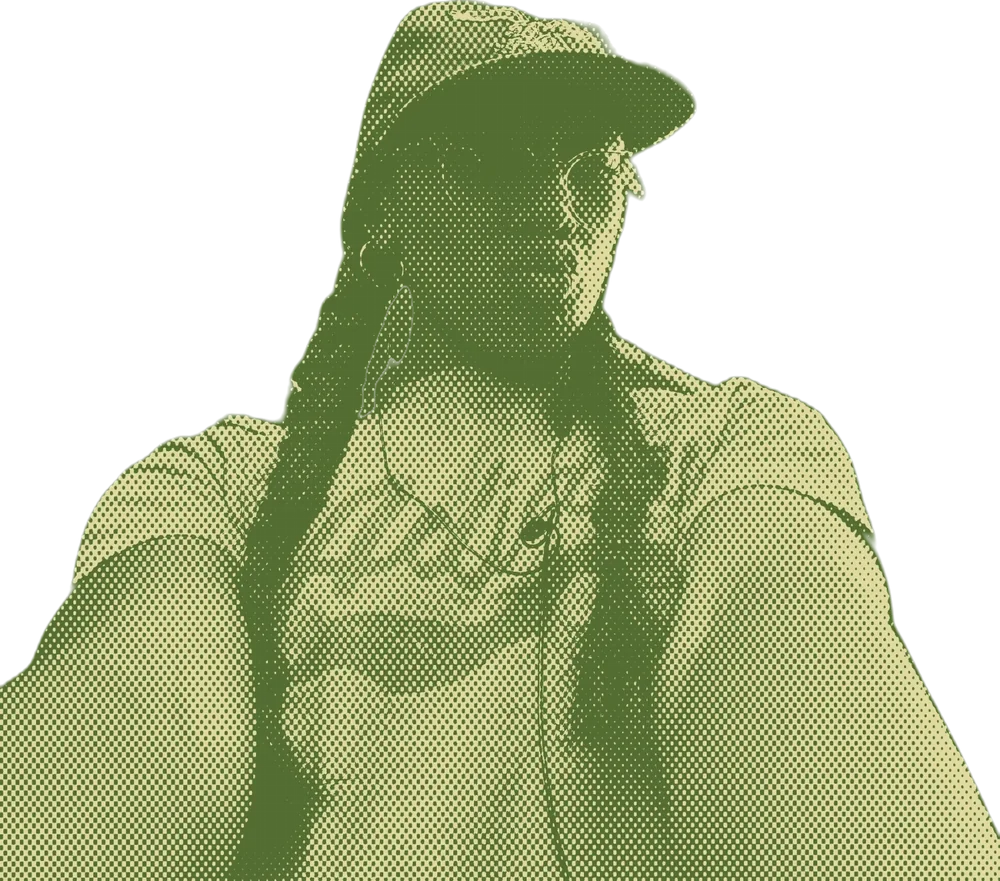
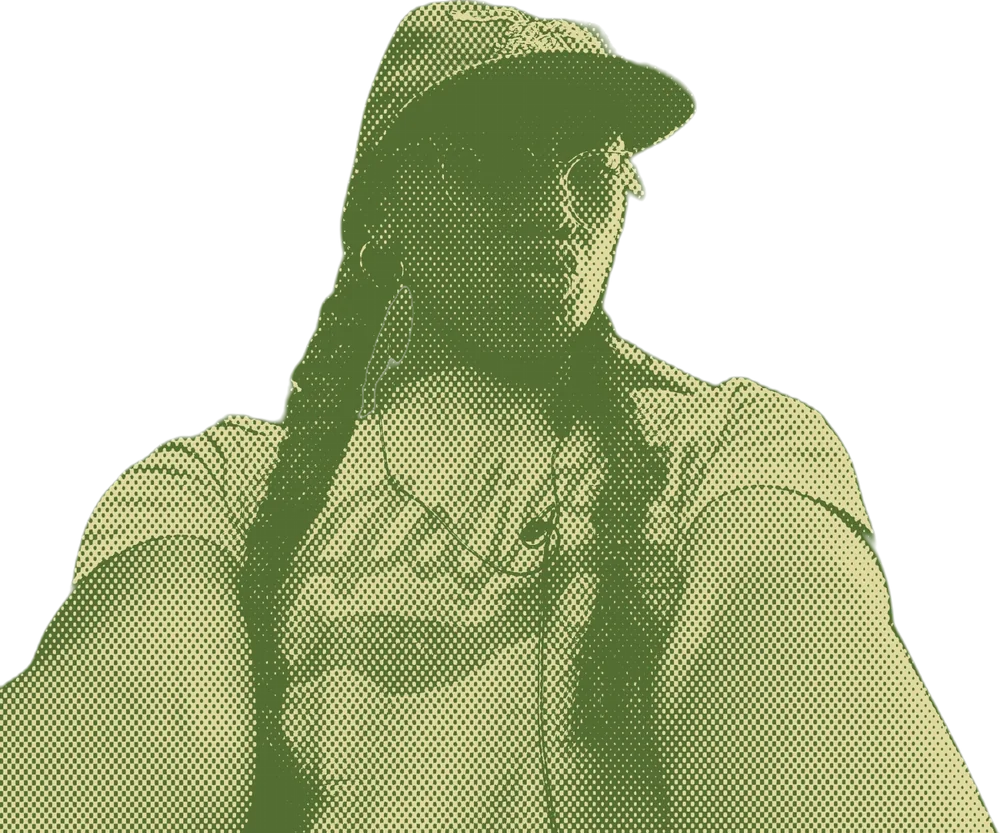
Lower the home top-left piece; crop Mix & Match figure above the hard edge
The Mix & Match figure's shoulder ran into the image's right edge near
the bottom, leaving a visible vertical cut. Cropped just above that point.

Claude-Session: https://claude.ai/code/session_011UXyj8zoCiQoXk8dDapznf

diff --git a/src/index.css b/src/index.css
@@ -383,8 +383,8 @@ button.danger:hover:not(:disabled) {
 .scatter-home .spot-1 {
   --size: clamp(100px, 11vw, 160px); /* grows with the screen */
   --tilt: -14deg;
-  left: calc(var(--size) * -0.8);
-  top: calc(var(--size) * -1);
+  left: calc(var(--size) * -0.9);
+  top: calc(var(--size) * -0.8); /* lower = closer to the boxes */
 }
 
 .scatter-home .spot-2 {
